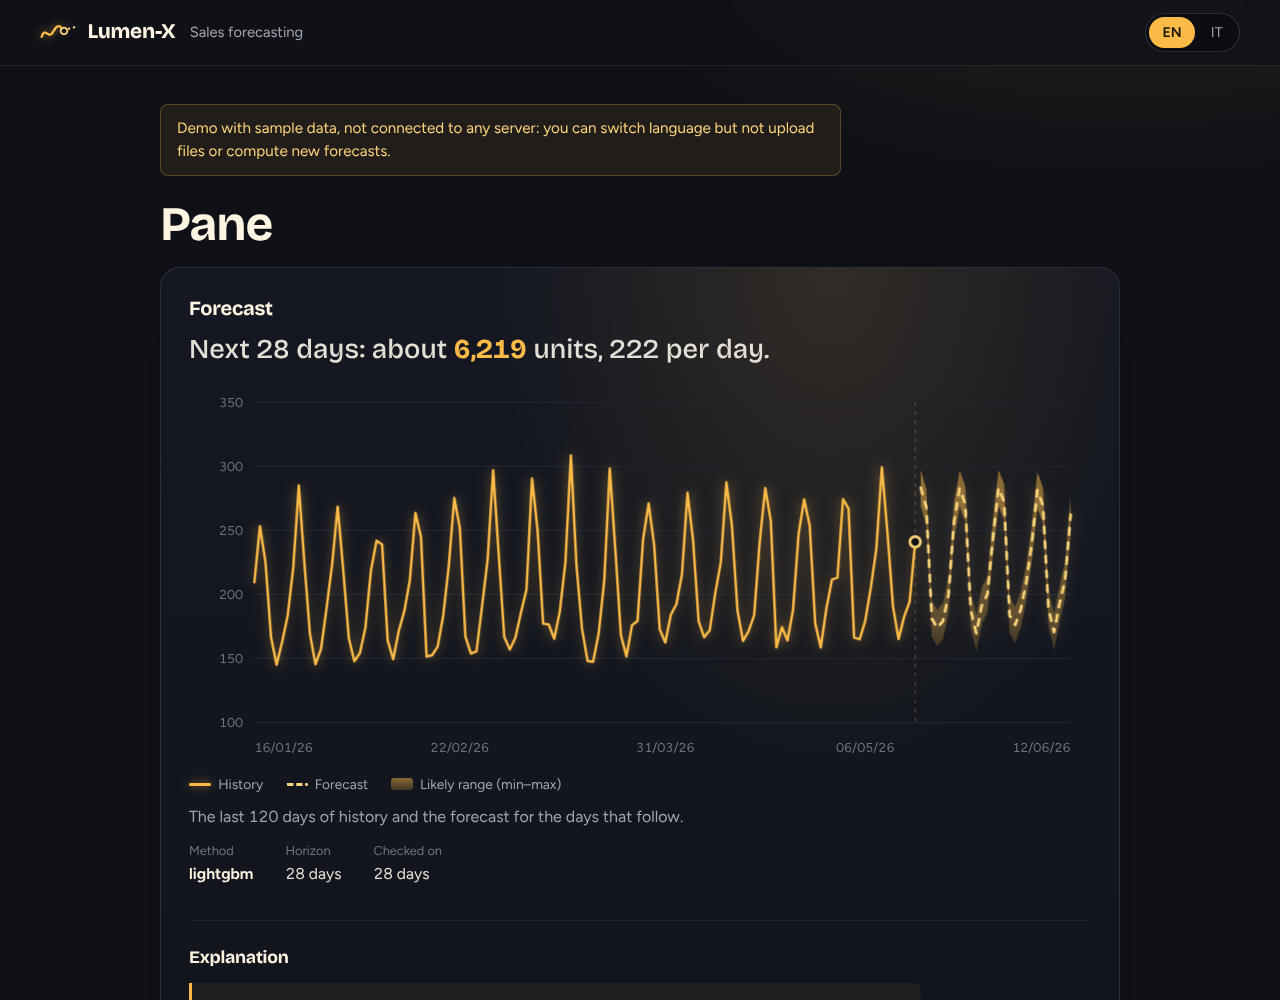
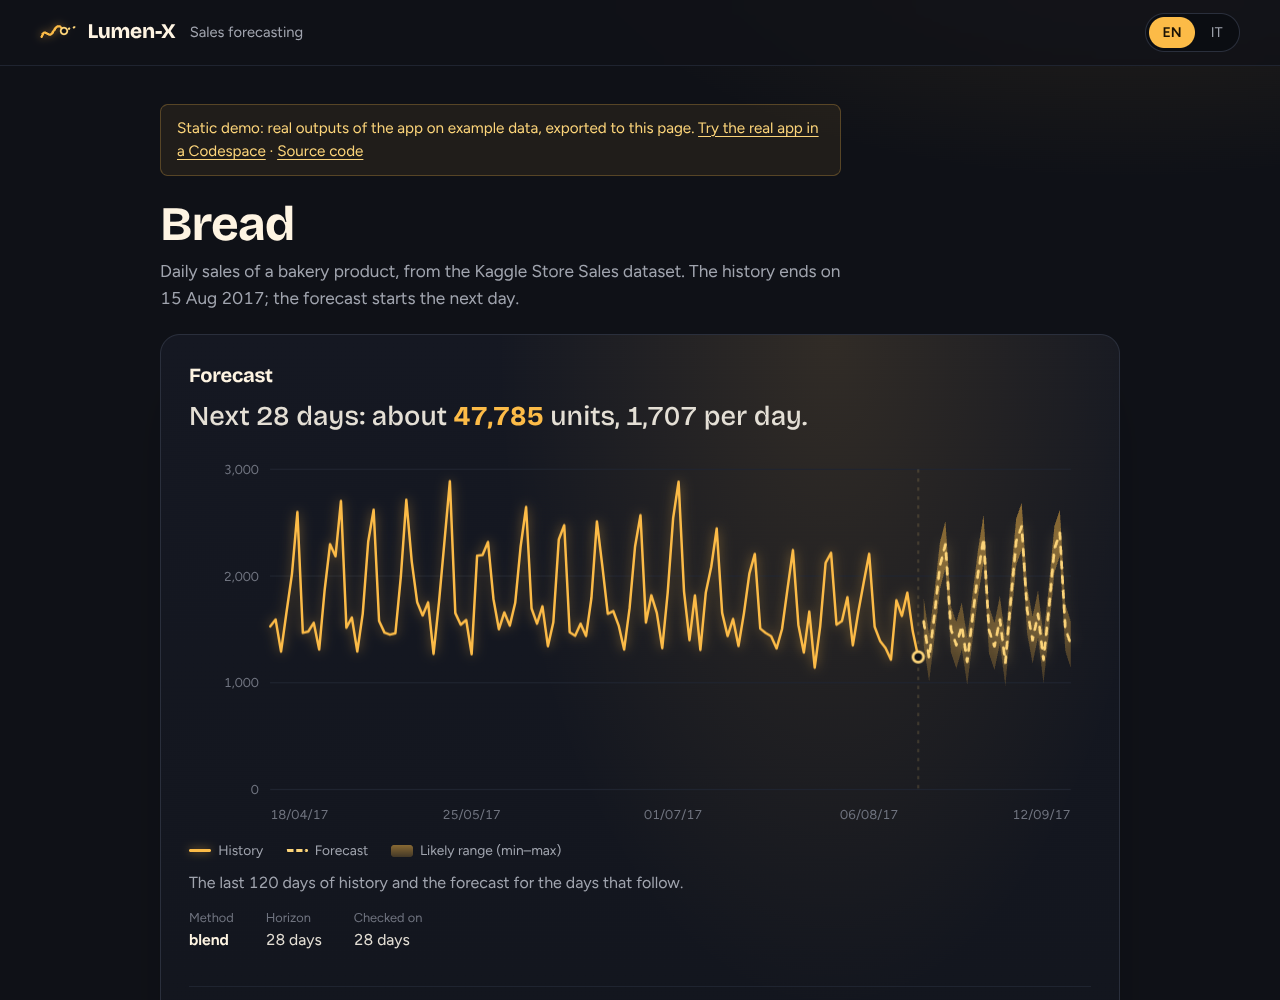
README claims match what the app does; chart axis on phones; demo intro

diff --git a/docs/index.html b/docs/index.html
@@ -28,10 +28,10 @@
   .toggle button { font: inherit; font-size: 0.88rem; padding: 0.3rem 0.85rem; border: 0; border-radius: 999px; background: transparent; color: var(--muted); cursor: pointer; }
   .toggle button.on { background: var(--amber); color: #1a1204; font-weight: 650; }
   .notice { margin: 0 0 1.5rem; padding: 0.7rem 1rem; max-width: 70ch; color: var(--amber-soft); background: rgba(252, 187, 71, 0.07); border: 1px solid rgba(252, 187, 71, 0.25); border-radius: var(--radius-s); font-size: 0.95rem; }
-  .lede { margin-bottom: 1.4rem; }
+  .lede { margin: 0 0 1.4rem; max-width: 62ch; }
   .err { color: var(--err); background: var(--err-bg); border-left: 3px solid var(--err); padding: 0.7rem 1rem; border-radius: var(--radius-s); }
   .source { margin-top: 0.2rem; }
-  #h-name { margin-bottom: 1.1rem; }
+  #h-name { margin-bottom: 0.5rem; }
 </style>
 </head>
 <body>
@@ -61,7 +61,8 @@
   var TEXT = {
     it: {
       tagline: 'Previsione vendite',
-      banner: 'Questa è una demo statica: i numeri sono stati esportati dall\'app vera, in esecuzione su dati di esempio (Kaggle Store Sales), quindi niente qui è calcolato in diretta. <a href="https://codespaces.new/asciosh/lumen-x">Prova l\'app vera in un Codespace di GitHub</a> · <a href="https://github.com/asciosh/lumen-x">Codice sorgente</a>',
+      banner: 'Demo statica: risultati veri dell\'app su dati di esempio, esportati in questa pagina. <a href="https://codespaces.new/asciosh/lumen-x">Prova l\'app vera in un Codespace</a> · <a href="https://github.com/asciosh/lumen-x">Codice sorgente</a>',
+      context: function (d) { return 'Vendite giornaliere di un prodotto di panetteria, dal dataset Kaggle Store Sales. Lo storico finisce il ' + d + '; la previsione parte il giorno dopo.'; },
       loading: 'Caricamento…', loadError: 'Impossibile caricare i dati della demo: ',
       forecast: 'Previsione', lead: function (days, total, avg) { return 'Prossimi ' + days + ' giorni: circa <strong>' + total + '</strong> unità, ' + avg + ' al giorno.'; },
       history: 'Storico', band: 'Fascia probabile (min–max)', chartNote: 'Ultimi 120 giorni di storico e previsione dei giorni successivi.',
@@ -77,7 +78,8 @@
     },
     en: {
       tagline: 'Sales forecasting',
-      banner: 'This is a static demo: the numbers were exported from the real app running on example data (Kaggle Store Sales), so nothing here is computed live. <a href="https://codespaces.new/asciosh/lumen-x">Try the real app in a GitHub Codespace</a> · <a href="https://github.com/asciosh/lumen-x">Source code</a>',
+      banner: 'Static demo: real outputs of the app on example data, exported to this page. <a href="https://codespaces.new/asciosh/lumen-x">Try the real app in a Codespace</a> · <a href="https://github.com/asciosh/lumen-x">Source code</a>',
+      context: function (d) { return 'Daily sales of a bakery product, from the Kaggle Store Sales dataset. The history ends on ' + d + '; the forecast starts the next day.'; },
       loading: 'Loading…', loadError: 'Could not load the demo data: ',
       forecast: 'Forecast', lead: function (days, total, avg) { return 'Next ' + days + ' days: about <strong>' + total + '</strong> units, ' + avg + ' per day.'; },
       history: 'History', band: 'Likely range (min–max)', chartNote: 'The last 120 days of history and the forecast for the days that follow.',
@@ -108,6 +110,11 @@
     var out = parts.length > 1 ? int + dec + parts[1] : int;
     return (neg && Number(s) !== 0 ? '-' : '') + out;
   }
+  // Full date in the language's style (Italian 15/08/2017, English 15 Aug 2017)
+  function fmtDate(iso) {
+    var p = iso.split('-'), months = ['Jan', 'Feb', 'Mar', 'Apr', 'May', 'Jun', 'Jul', 'Aug', 'Sep', 'Oct', 'Nov', 'Dec'];
+    return state.lang === 'it' ? p[2] + '/' + p[1] + '/' + p[0] : (+p[2]) + ' ' + months[+p[1] - 1] + ' ' + p[0];
+  }
   function dayNumber(iso) { var p = iso.split('-'); return Math.round(Date.UTC(+p[0], +p[1] - 1, +p[2]) / 86400000); }
   function shortDate(dn) { var d = new Date(dn * 86400000), pad = function (x) { return (x < 10 ? '0' : '') + x; };
     return pad(d.getUTCDate()) + '/' + pad(d.getUTCMonth() + 1) + '/' + pad(d.getUTCFullYear() % 100); }
@@ -124,7 +131,7 @@
   }
 
   function chartSvg(sales, fc, maxHist) {
-    var W = 800, H = 340, L = 58, R = 18, T = 18, B = 38;
+    var W = 800, H = 340, L = 72, R = 18, T = 18, B = 38;
     var hist = sales.slice().sort(function (a, b) { return a.date < b.date ? -1 : 1; });
     if (hist.length > maxHist) hist = hist.slice(hist.length - maxHist);
     var days = hist.map(function (p) { return dayNumber(p.date); }).concat(fc.map(function (p) { return dayNumber(p.date); }));
@@ -173,7 +180,8 @@
     var name = (state.expl.it && state.expl.it.facts && state.expl.it.facts.productName) ||
                (state.expl.en && state.expl.en.facts && state.expl.en.facts.productName) || 'Lumen-X';
 
-    var html = '<h1 id="h-name"></h1><section class="card stage"><h2>' + esc(t('forecast')) + '</h2>';
+    var lastDay = (state.sales && state.sales.length) ? state.sales.map(function (p) { return p.date; }).sort().pop() : null;
+    var html = '<h1 id="h-name"></h1>' + (lastDay ? '<p class="lede">' + esc(t('context')(fmtDate(lastDay))) + '</p>' : '') + '<section class="card stage"><h2>' + esc(t('forecast')) + '</h2>';
     if (fc.length) html += '<p class="lead">' + t('lead')(fc.length, num(total, 0), num(total / fc.length, 0)) + '</p>';
     html += '<div class="chart-wrap">' + chartSvg(state.sales || [], fc, 120) + '</div>';
     html += '<div class="legend"><span><i class="sw sw-history"></i> ' + esc(t('history')) + '</span><span><i class="sw sw-yhat"></i> ' + esc(t('forecast')) + '</span><span><i class="sw sw-band"></i> ' + esc(t('band')) + '</span></div>';

diff --git a/dashboard/src/LumenX.Dashboard/wwwroot/app.css b/dashboard/src/LumenX.Dashboard/wwwroot/app.css
@@ -451,7 +451,7 @@ input[type="file"]::file-selector-button {
 
   /* On a phone the chart scales instead of scrolling: the forecast must stay in view. */
   .chart { min-width: 0; }
-  .chart .tick { font-size: 24px; }
+  .chart .tick { font-size: 21px; }
   .chart .line-history, .chart .line-yhat { stroke-width: 4; }
   .chart .line-yhat { stroke-dasharray: 12 12; }
   .chart .dot { stroke-width: 4; }

diff --git a/docs/app.css b/docs/app.css
@@ -451,7 +451,7 @@ input[type="file"]::file-selector-button {
 
   /* On a phone the chart scales instead of scrolling: the forecast must stay in view. */
   .chart { min-width: 0; }
-  .chart .tick { font-size: 24px; }
+  .chart .tick { font-size: 21px; }
   .chart .line-history, .chart .line-yhat { stroke-width: 4; }
   .chart .line-yhat { stroke-dasharray: 12 12; }
   .chart .dot { stroke-width: 4; }

diff --git a/README.md b/README.md
@@ -12,11 +12,11 @@
 
 **Lumen-X** is a sales forecasting system with an AI assistant that explains the numbers in plain language. Built for small businesses: shops, restaurants and small e-commerce stores.
 
-Upload your sales data, get reliable forecasts, and ask questions like:
+Upload your sales data, get forecasts with honest error estimates, and ask questions like:
 
-- *"How much should I reorder next week?"*
-- *"Why are March sales below forecast?"*
-- *"Which products are at risk of stocking out?"*
+- *"How much did I sell in the last 30 days?"*
+- *"What should I order?"*
+- *"How reliable is the forecast?"*
 
 ## Why I built this
 
@@ -128,7 +128,7 @@ Tests: `pytest` in `services/forecasting`, `dotnet test backend/tests/LumenX.Api
 - [x] **LLM layer** for forecast explanations (Italian/English, Gemini optional)
 - [x] **Dashboard** (Blazor Server)
 - [x] Trial with real data (Kaggle Store Sales, rolling backtest)
-- [ ] Deployment
+- [ ] Public deployment: not yet, on purpose (the app has no login). For now: the live demo above and a one-click Codespace.
 
 ## Results on real data
 
